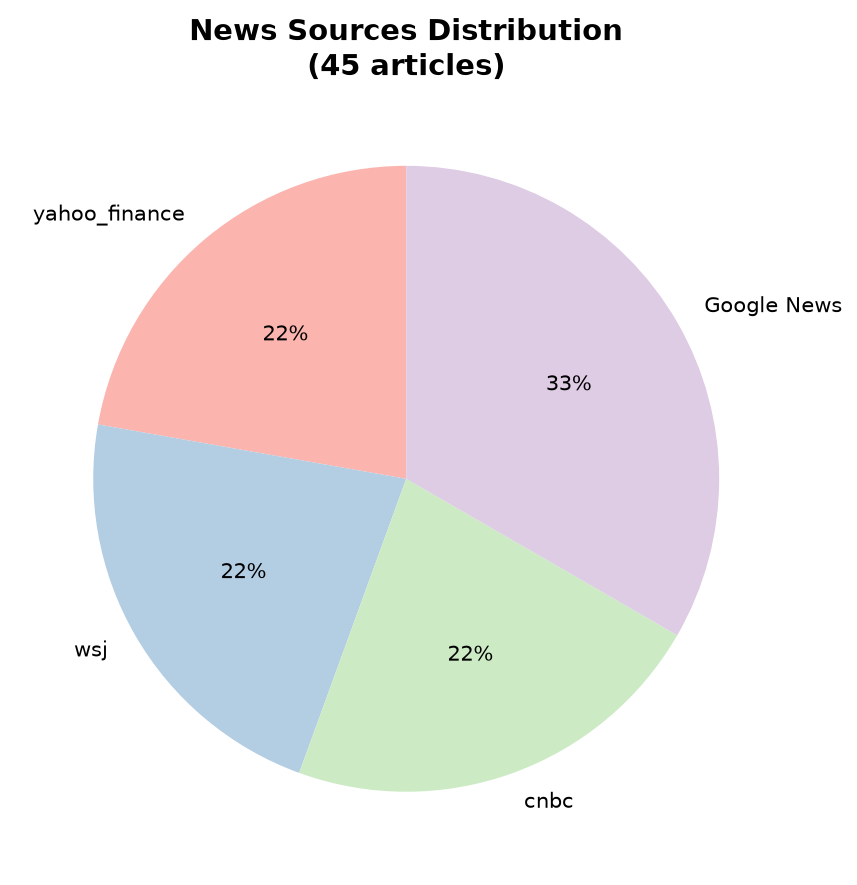
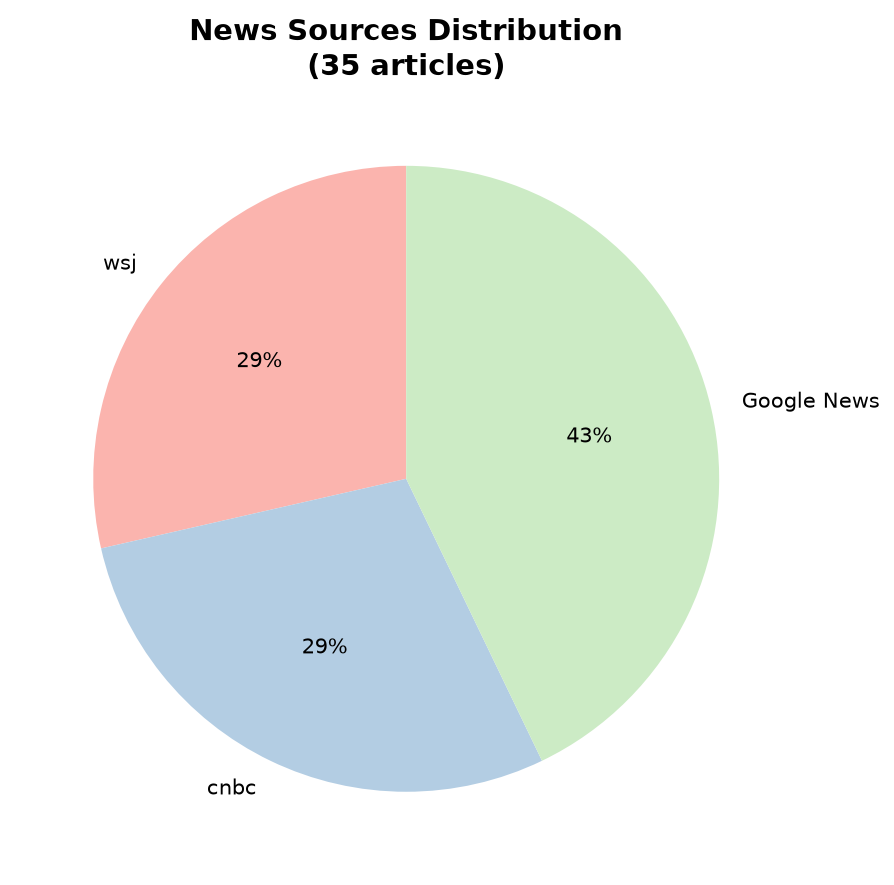
🤖 Auto-update: 2026-10-06 14:56

diff --git a/reports/news_20261006.md b/reports/news_20261006.md
@@ -1,0 +1,146 @@
+# 📰 Berkshire Hathaway 新闻监控报告
+
+生成时间: 2026-10-06 14:56:22
+
+## 最近动态 (35 条)
+
+### 1. Stocks Sink in Broad AI Rout Sparked by China's DeepSeek
+
+- **来源**: wsj
+- **链接**: https://www.wsj.com/articles/nikkei-may-rise-as-weak-yen-raises-earnings-hopes-776a8056?mod=rss_markets_main
+- **时间**: Mon, 27 Jan 2025 14:26:00 -0500
+
+---
+### 2. Comex Gold, Silver Settle Lower
+
+- **来源**: wsj
+- **链接**: https://www.wsj.com/articles/gold-edges-lower-feds-rate-decision-in-focus-09dbfceb?mod=rss_markets_main
+- **时间**: Mon, 27 Jan 2025 14:01:00 -0500
+
+---
+### 3. DeepSeek Won't Sink U.S. AI Titans
+
+- **来源**: wsj
+- **链接**: https://www.wsj.com/articles/deepseek-us-ai-stocks-nvidia-broadcom-6cdfae81?mod=rss_markets_main
+- **时间**: Mon, 27 Jan 2025 13:12:00 -0500
+
+---
+### 4. Financial Services Roundup: Market Talk
+
+- **来源**: wsj
+- **链接**: https://www.wsj.com/articles/financial-services-roundup-market-talk-94f52cba?mod=rss_markets_main
+- **时间**: Mon, 27 Jan 2025 12:27:00 -0500
+
+---
+### 5. Arabica Coffee Prices Hit Record on U.S., Colombia Tariff Spat
+
+- **来源**: wsj
+- **链接**: https://www.wsj.com/articles/arabica-coffee-prices-hit-new-high-on-u-s-colombia-tariff-spat-582446fe?mod=rss_markets_main
+- **时间**: Mon, 27 Jan 2025 12:20:00 -0500
+
+---
+### 6. Swiss franc, Japanese yen Rise as DeepSeek News Boosts Safe Havens
+
+- **来源**: wsj
+- **链接**: https://www.wsj.com/articles/safe-haven-currencies-strengthen-amid-fears-over-global-tariffs-9964e17a?mod=rss_markets_main
+- **时间**: Mon, 27 Jan 2025 09:55:00 -0500
+
+---
+### 7. Natural Gas Falls on Shifting Weather Forecasts
+
+- **来源**: wsj
+- **链接**: https://www.wsj.com/articles/u-s-natural-gas-futures-fall-on-shifting-weather-forecasts-1ef3e457?mod=rss_markets_main
+- **时间**: Mon, 27 Jan 2025 09:05:00 -0500
+
+---
+### 8. Building-Products Distributor QXO Launches Hostile Bid for Beacon
+
+- **来源**: wsj
+- **链接**: https://www.wsj.com/articles/building-products-distributor-qxo-launching-hostile-bid-for-beacon-de024410?mod=rss_markets_main
+- **时间**: Mon, 27 Jan 2025 08:28:00 -0500
+
+---
+### 9. Natural-Gas Firm Diversified Energy Strikes Deal for Permian Basin Player
+
+- **来源**: wsj
+- **链接**: https://www.wsj.com/articles/natural-gas-firm-diversified-energy-nears-deal-for-permian-basin-player-4c1c5ff5?mod=rss_markets_main
+- **时间**: Mon, 27 Jan 2025 06:57:00 -0500
+
+---
+### 10. What's New This Tax Season That Can Save You Money
+
+- **来源**: wsj
+- **链接**: https://www.wsj.com/articles/tax-season-2024-irs-filing-dates-explained-628a8b37?mod=rss_markets_main
+- **时间**: Mon, 27 Jan 2025 05:30:00 -0500
+
+---
+### 11. Rebounding oil exports through Strait of Hormuz are vulnerable to stepped-up Iranian tanker attacks
+
+- **来源**: cnbc
+- **链接**: https://www.cnbc.com/2026/10/06/crude-oil-tanker-strait-hormuz-iran-attack.html
+- **时间**: Tue, 06 Oct 2026 13:17:17 GMT
+
+---
+### 12. Trade deficit hits $105.6 billion, widest since just before Trump tariffs enacted last year
+
+- **来源**: cnbc
+- **链接**: https://www.cnbc.com/2026/10/06/trade-deficit-hits-105point6-billion-widest-since-just-before-trump-tariffs-enacted-last-year.html
+- **时间**: Tue, 06 Oct 2026 14:53:41 GMT
+
+---
+### 13. Paramount's hard-fought takeover of Warner Bros. Discovery closed Tuesday. Here's how we got here
+
+- **来源**: cnbc
+- **链接**: https://www.cnbc.com/2026/10/06/paramount-wbd-deal-timeline.html
+- **时间**: Tue, 06 Oct 2026 13:08:32 GMT
+
+---
+### 14. Why deep-red Kansas has become an unexpected Senate battleground
+
+- **来源**: cnbc
+- **链接**: https://www.cnbc.com/2026/10/06/kansas-election-senate-marshall-hamilton.html
+- **时间**: Tue, 06 Oct 2026 10:00:01 GMT
+
+---
+### 15. Mistral unveils new AI model it says rivals best open systems from China
+
+- **来源**: cnbc
+- **链接**: https://www.cnbc.com/2026/10/06/mistral-ai-model-le-chonk.html
+- **时间**: Tue, 06 Oct 2026 13:00:01 GMT
+
+---
+### 16. Anduril lands $2.9 billion Navy submarine shipyard contract days after Luckey joins Pentagon weapons group
+
+- **来源**: cnbc
+- **链接**: https://www.cnbc.com/2026/10/06/anduril-navy-submarine-shipyard-contract.html
+- **时间**: Tue, 06 Oct 2026 13:52:45 GMT
+
+---
+### 17. This startup wants to reduce liquidation risk from margin calls on prediction markets
+
+- **来源**: cnbc
+- **链接**: https://www.cnbc.com/2026/10/06/this-firm-aims-to-reduce-liquidation-risk-from-margin-calls-on-prediction-markets.html
+- **时间**: Tue, 06 Oct 2026 13:01:20 GMT
+
+---
+### 18. Google DeepMind's Lila Ibrahim, world's top AI 'readiness' officer, on preparing for what's to come
+
+- **来源**: cnbc
+- **链接**: https://www.cnbc.com/2026/10/06/google-deepmind-ai-risks-lila-ibrahim.html
+- **时间**: Tue, 06 Oct 2026 14:00:01 GMT
+
+---
+### 19. Russian lab worker's suspected plague death leaves experts puzzled
+
+- **来源**: cnbc
+- **链接**: https://www.cnbc.com/2026/10/06/plague-russia-person-died-lab-infection-pneumonic.html
+- **时间**: Tue, 06 Oct 2026 13:52:59 GMT
+
+---
+### 20. Student riots engulf France as far-right presidential frontrunner Le Pen vows fiscal turnaround
+
+- **来源**: cnbc
+- **链接**: https://www.cnbc.com/2026/10/06/france-student-protests-budget.html
+- **时间**: Tue, 06 Oct 2026 09:46:34 GMT
+
+---
